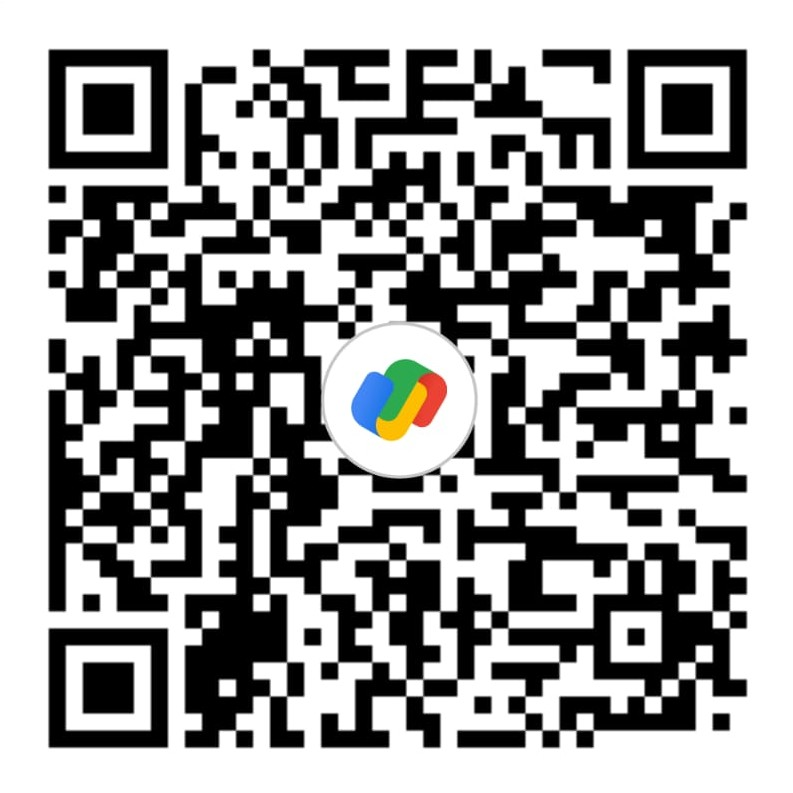
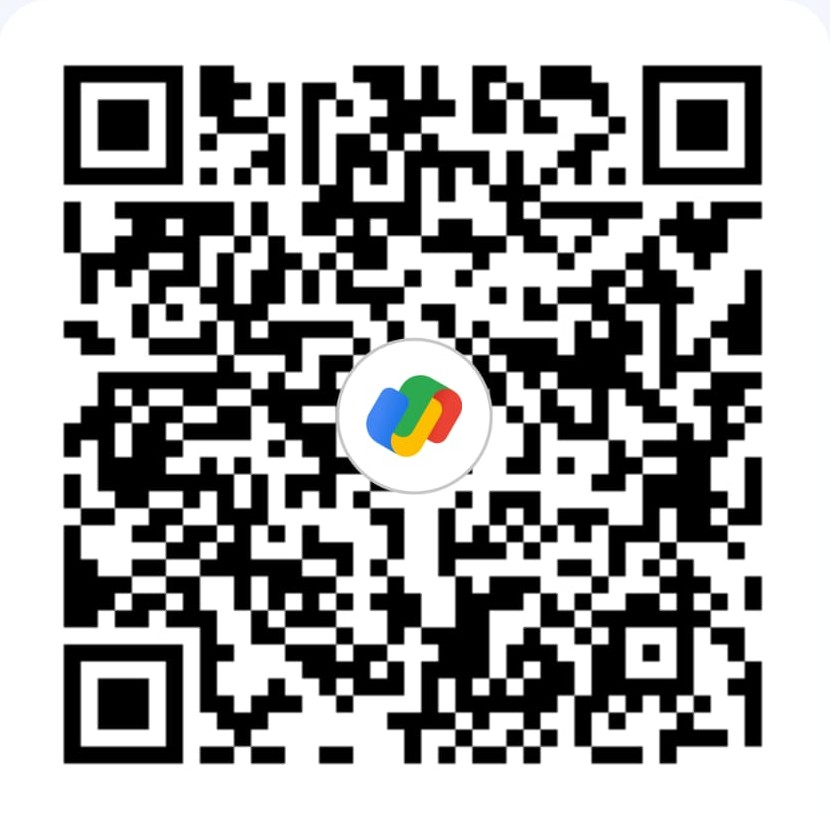
updated acco qr, removed participant merch

diff --git a/app/(Event_Portal)/(activities)/interactive-sessions/page.tsx b/app/(Event_Portal)/(activities)/interactive-sessions/page.tsx
@@ -1,13 +1,114 @@
-import ComingSoon from '@/components/ComingSoon'
-import Navbar from '@/components/Navbar'
-import React from 'react'
+import Image from "next/image";
+import React from "react";
+
+const sessionDetails = [
+  { label: "Speaker", value: "Rahul Dash" },
+  { label: "Role", value: "Product Manager, Instron" },
+  { label: "Date", value: "28 March" },
+  { label: "Time", value: "5:00 PM to 6:00 PM (Tentative)" },
+  { label: "Mode", value: "Online Interactive Session" },
+  { label: "Venue", value: "SN Bose Auditorium, Main Building" },
+];
+
+const highlights = [
+  "Understand why fatigue testing matters in engineering design and product reliability.",
+  "Explore practical fatigue testing techniques used across materials and manufacturing workflows.",
+  "Gain industry-facing insights from Rahul Dash of Instron during a focused interactive session.",
+];
 
 const InteractiveSessions = () => {
   return (
-    <main>
-      <ComingSoon/>
-    </main>
-  )
-}
+    <main className="relative w-full overflow-hidden px-[5vw] py-20 mt-16 lg:py-28">
+      <div className="mx-auto max-w-6xl">
+        <section className="rounded-[2rem] border border-white/10 bg-white/5 p-8 backdrop-blur-xl shadow-[0_20px_60px_rgba(92,10,10,0.22)] md:p-12">
+          <div className="grid items-center gap-8 lg:grid-cols-[1.15fr_0.85fr]">
+            <div className="max-w-3xl">
+              <p className="text-sm font-semibold uppercase tracking-[0.35em] text-amber-300">
+                Interactive Session
+              </p>
+              <h1 className="mt-5 text-4xl font-bold leading-tight text-white md:text-5xl lg:text-6xl">
+                Importance of Fatigue Testing and Techniques
+              </h1>
+              <p className="mt-6 text-base leading-8 text-gray-300 md:text-lg">
+                Rahul Dash, Product Manager at Instron, will deliver an
+                interactive session on the importance of fatigue testing and the
+                techniques used to evaluate material and product performance
+                under repeated loading conditions.
+              </p>
+            </div>
 
-export default InteractiveSessions
+            <div className="mx-auto w-full max-w-sm">
+              <div className="overflow-hidden rounded-[1.75rem] border border-amber-400/20 bg-black/20 p-2 shadow-[0_18px_50px_rgba(0,0,0,0.3)]">
+                <Image
+                  src="/rahul.jpg"
+                  alt="Rahul Dash"
+                  width={900}
+                  height={1100}
+                  className="h-full w-full rounded-[1.25rem] object-cover"
+                  priority
+                />
+              </div>
+            </div>
+          </div>
+
+          <div className="mt-10 grid gap-4 md:grid-cols-2 xl:grid-cols-3">
+            {sessionDetails.map((detail) => (
+              <div
+                key={detail.label}
+                className="rounded-2xl border border-amber-400/20 bg-black/20 p-5 transition duration-300 hover:-translate-y-1 hover:border-amber-300/40"
+              >
+                <p className="text-xs font-semibold uppercase tracking-[0.25em] text-amber-300">
+                  {detail.label}
+                </p>
+                <p className="mt-3 text-lg font-medium text-white">
+                  {detail.value}
+                </p>
+              </div>
+            ))}
+          </div>
+        </section>
+
+        <section className="mt-10 grid gap-8 lg:grid-cols-[1.25fr_0.75fr]">
+          <div className="rounded-[2rem] border border-white/10 bg-white/5 p-8 backdrop-blur-xl md:p-10">
+            <h2 className="text-2xl font-semibold text-white md:text-3xl">
+              What to Expect
+            </h2>
+            <div className="mt-4 h-1 w-20 rounded-full bg-linear-to-r from-amber-400 to-orange-500" />
+            <div className="mt-6 space-y-4">
+              {highlights.map((highlight) => (
+                <div
+                  key={highlight}
+                  className="flex items-start gap-4 rounded-2xl border border-white/8 bg-black/15 p-4"
+                >
+                  <span className="mt-1 h-2.5 w-2.5 shrink-0 rounded-full bg-amber-400" />
+                  <p className="text-gray-300 leading-7">{highlight}</p>
+                </div>
+              ))}
+            </div>
+          </div>
+
+          <aside className="rounded-[2rem] border border-amber-400/20 bg-linear-to-br from-amber-500/10 to-white/5 p-8 backdrop-blur-xl md:p-10">
+            <h2 className="text-2xl font-semibold text-white">Session Note</h2>
+            <p className="mt-5 text-gray-300 leading-7">
+              The session is currently scheduled as an online interactive event,
+              with the listing noting SN Bose Auditorium, Main Building, as the
+              venue. Please treat the timing as tentative and watch for final
+              confirmation from the COMPOSIT team.
+            </p>
+            <div className="mt-6 rounded-2xl border border-amber-300/20 bg-black/20 p-5">
+              <p className="text-sm uppercase tracking-[0.25em] text-amber-300">
+                Topic Focus
+              </p>
+              <p className="mt-3 text-white leading-7">
+                Fatigue testing, its importance in performance validation, and
+                the techniques used to study durability under cyclic loads.
+              </p>
+            </div>
+          </aside>
+        </section>
+      </div>
+    </main>
+  );
+};
+
+export default InteractiveSessions;

diff --git a/app/(Event_Portal)/accommodations/page.tsx b/app/(Event_Portal)/accommodations/page.tsx
@@ -2,14 +2,12 @@ import React from "react";
 import Link from "next/link";
 import Image from "next/image";
 import { auth } from "@/auth";
-import AccommodationMerchPopup from "@/components/AccommodationMerchPopup";
 
 const Accommodations = async () => {
   const session = await auth();
 
   return (
     <main className="relative w-full overflow-hidden py-20 mt-16 lg:py-28">
-      <AccommodationMerchPopup />
       <div className="mx-auto max-w-6xl px-[5vw]">
         <div className="mb-12 space-y-3 text-center">
           <h1 className="text-3xl font-bold leading-tight text-white md:text-4xl lg:text-5xl">
@@ -89,42 +87,6 @@ const Accommodations = async () => {
                 ? "Book Accommodation"
                 : "Login to Book Accommodation"}
             </Link>
-          </div>
-        </section>
-
-        <section className="mt-14 rounded-3xl border border-amber-400/25 bg-linear-to-br from-white/5 to-amber-500/5 p-8 backdrop-blur-sm md:p-10">
-          <div className="grid grid-cols-1 items-center gap-8 md:grid-cols-2">
-            <div>
-              <h2 className="text-2xl font-semibold text-white md:text-3xl">
-                Also Checkout Our Official Merch
-              </h2>
-              <p className="mt-4 text-gray-300 md:text-lg leading-relaxed">
-                Take a piece of COMPOSIT home with you. Our official merch is
-                designed to keep the fest energy alive long after the events
-                end.
-              </p>
-              <p className="mt-3 text-gray-300 md:text-lg leading-relaxed">
-                Grab your merch now, wear it on campus, and be part of the
-                COMPOSIT vibe from day one.
-              </p>
-
-              <Link
-                href="/participation-merch"
-                className="mt-6 inline-flex items-center justify-center rounded-full border border-amber-300/40 bg-amber-400/15 px-7 py-3 text-base font-semibold text-amber-200 shadow-lg shadow-amber-500/15 transition-transform duration-300 hover:-translate-y-1 hover:bg-amber-400/25"
-              >
-                Explore Official Merch
-              </Link>
-            </div>
-
-            <div className="overflow-hidden rounded-2xl border border-amber-400/25 bg-black/20 p-2">
-              <Image
-                src="/merch 4.png"
-                alt="Official COMPOSIT merch design"
-                width={900}
-                height={900}
-                className="h-full w-full rounded-xl object-cover"
-              />
-            </div>
           </div>
         </section>
       </div>

diff --git a/components/Navbar.tsx b/components/Navbar.tsx
@@ -43,13 +43,11 @@ const Navbar = () => {
     { name: "Events", path: "/events" },
     { name: "Activities", path: "", hasDropdown: true },
     { name: "Accommodations", path: "/accommodations" },
-    { name: "Composit Merch", path: "/participation-merch" },
     { name: "Sponsorships", path: "/sponsorships" },
     { name: "Our Team", path: "/our-team" },
   ];
 
   const activitiesDropdown = [
-    { name: "Guest Lectures", path: "/guest-lectures" },
     { name: "Exhibitions", path: "/exhibitions" },
     { name: "Interactive Sessions", path: "/interactive-sessions" },
     { name: "Schedule", path: "/schedule" },
